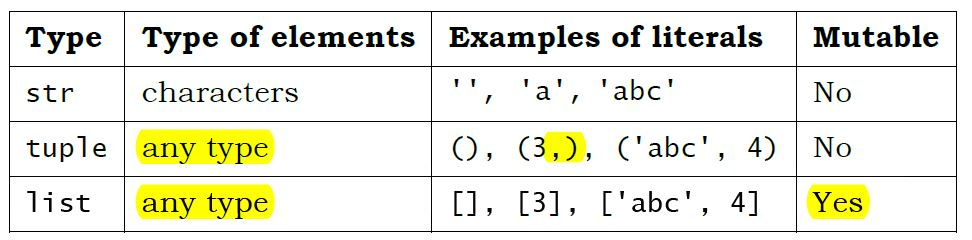
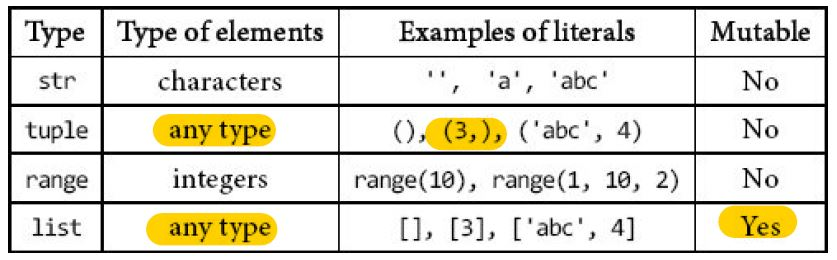
cleanup

diff --git a/Outline.md b/Outline.md
@@ -50,7 +50,9 @@
 
    * [2.1 Control Flow](https://nbviewer.ipython.org/github/PySEE/home/tree/S2019/notebook/Unit1-2-1-Control_Flow.ipynb)
 
-     * `if`, `while`,`for loops`,`range(start,stop,step)`, `break`, `continue`
+     * `if`, `while`,`for loops`, `break`, `continue`
+
+     * `range(start,stop,step)`
      
      * **Indentation**: delineate blocks of code
     
@@ -82,15 +84,19 @@
 
    * Module: `import M`,`from M import *`; the interpreter search path, `sys.path`, Scipy
 
-* **4 Tuple, List, Dict**
+* **4 Structured types**
 
    * [4.1 Tuple, Sequence unpacking](https://nbviewer.ipython.org/github/PySEE/home/tree/S2019/notebook/Unit1-4-1-05-Tuple.ipynb)
 
-   * [4.2 List, Mutability, Cloning, List Comprehension](https://nbviewer.ipython.org/github/PySEE/home/tree/S2019/notebook/Unit1-4-2-05-List.ipynb)
+   * [4.2 List,Range](https://nbviewer.ipython.org/github/PySEE/home/tree/S2019/notebook/Unit1-4-2-05-List.ipynb)
 
+      * List, mutability, cloning,List Comprehension
+      
       * map
 
-      * Sequence Operators and Functions
+      * Range
+
+      * Sequence types(String,List,Tuple,Range): Operators and Functions
 
    * [4.3 Dictionary, Mutability](https://nbviewer.ipython.org/github/PySEE/home/tree/S2019/notebook/Unit1-4-3-05-Dict.ipynb)
    
